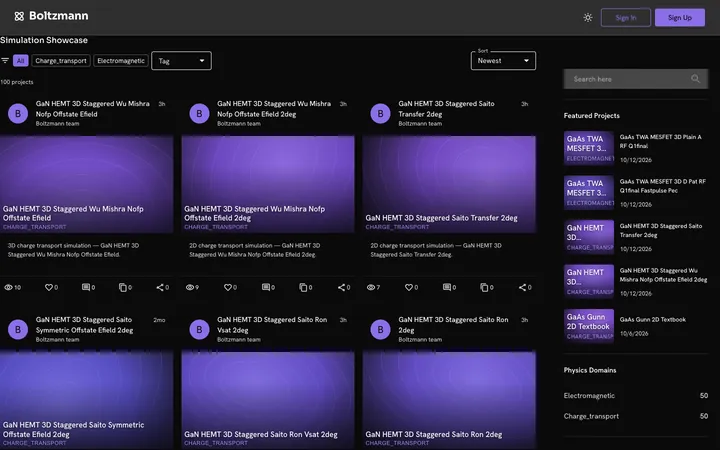
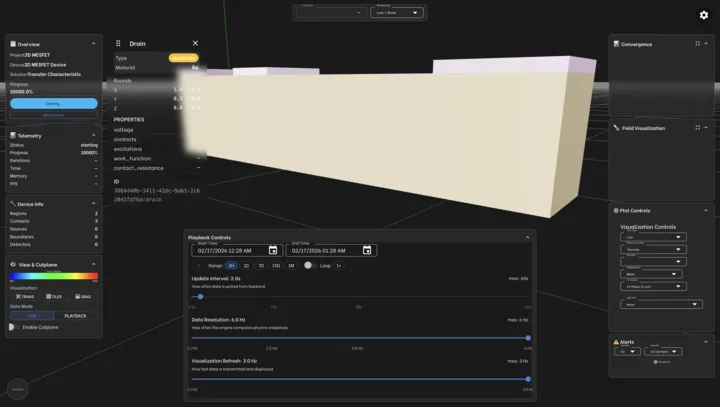
portfolio: real studio shots, Tillio card, Signals Institute case 06
- Boltzmann: Simulation Studio, IDE, device generation, research impact (from its landing images); drop placeholder showcase
- Landslide: signed-in dashboard (account email blurred) + benchmarks leaderboard
- Prophet: developers/API page; Tillio: new product card (landing + discover + projects, internal project name blurred)
- Remove repetitive first-run cards from 11 products
- Identity case 06: The Signals Institute (bee mark plates, palette, type, home + pillars)

diff --git a/site/portfolio.html b/site/portfolio.html
@@ -4,7 +4,7 @@
 <meta charset="utf-8">
 <meta name="viewport" content="width=device-width, initial-scale=1, viewport-fit=cover">
 <title>Design portfolio · Butts Studios</title>
-<meta name="description" content="Brand identities and products designed by Butts Studios: Huntington Applied, Runwae Apparel, Daily AI Toll, Latarence, Landslide, Boltzmann, Chrona, Blacklab and more.">
+<meta name="description" content="Brand identities and products designed by Butts Studios: Huntington Applied, Runwae Apparel, Daily AI Toll, Latarence, Ridgefield, The Signals Institute, Landslide, Boltzmann, Chrona, Blacklab and more.">
 <meta name="robots" content="noindex">
 <link rel="icon" type="image/png" href="favicon.png">
 <link rel="preconnect" href="https://fonts.googleapis.com">
@@ -190,13 +190,44 @@
           <figcaption><b>Performance</b> · engagements</figcaption></figure>
       </div>
     </article>
+
+    <article class="case" id="signals-institute">
+      <div class="case-info">
+        <span class="case-no">06</span>
+        <h2>The Signals Institute</h2>
+        <p class="kind">Identity · Website</p>
+        <p class="desc">An institute in West Palm Beach increasing access to technology careers in underserved communities. The identity pairs a bee mark with a stacked wordmark, set in near-black with one signal blue and quiet, generous type.</p>
+        <dl>
+          <div><dt>Palette</dt><dd>
+            <ul class="swatches">
+              <li><i style="background:#0A0A0A"></i>#0A0A0A</li>
+              <li><i style="background:#00A8E8"></i>#00A8E8</li>
+              <li><i style="background:#22C55E"></i>#22C55E</li>
+              <li><i style="background:#F59E0B"></i>#F59E0B</li>
+              <li><i style="background:#F5F3EE"></i>#F5F3EE</li>
+            </ul>
+          </dd></div>
+          <div><dt>Type</dt><dd>Inter Tight for headlines and reading; Source Serif 4 as the accent face.</dd></div>
+          <div><dt>System</dt><dd>Numbered navigation, small uppercase section labels, and three pillars each keyed to its own colour.</dd></div>
+        </dl>
+        <p><a class="open-site" href="https://thesignalsinstitute.com" target="_blank" rel="noopener">Visit ↗</a></p>
+      </div>
+      <div class="case-media">
+        <figure class="pf-shot"><div class="pf-frame"><a class="zoom" href="assets/portfolio/screen-signals-institute.webp" data-gallery="signals-institute" data-caption="The Signals Institute · thesignalsinstitute.com · homepage"><img src="assets/portfolio/screen-signals-institute-720.webp" srcset="assets/portfolio/screen-signals-institute-720.webp 720w, assets/portfolio/screen-signals-institute.webp 1440w" sizes="(max-width: 900px) 100vw, 60vw" width="1440" height="900" alt="The Signals Institute homepage: Access Changes Everything in white on near-black beside faint concentric signal rings" loading="lazy"></a></div>
+          <figcaption><b>thesignalsinstitute.com</b> · homepage</figcaption></figure>
+        <div class="plate tsi-ink half"><div><a class="zoom" href="assets/portfolio/signals-institute-logo-light.webp" data-gallery="signals-institute" data-caption="The Signals Institute · Bee mark and wordmark on near-black"><img src="assets/portfolio/signals-institute-logo-light.webp" alt="The Signals Institute logo: a bee mark beside the stacked name, in white" loading="lazy"></a><p class="plate-cap">Mark on near-black</p></div></div>
+        <div class="plate tsi-paper half"><div><a class="zoom" href="assets/portfolio/signals-institute-logo-dark.webp" data-gallery="signals-institute" data-caption="The Signals Institute · Bee mark and wordmark on paper"><img src="assets/portfolio/signals-institute-logo-dark.webp" alt="The Signals Institute logo: a bee mark beside the stacked name, in black" loading="lazy"></a><p class="plate-cap">Mark on paper</p></div></div>
+        <figure class="pf-shot"><div class="pf-frame"><a class="zoom" href="assets/portfolio/screen-signals-institute-pillars.webp" data-gallery="signals-institute" data-caption="The Signals Institute · Pillars page"><img src="assets/portfolio/screen-signals-institute-pillars-720.webp" srcset="assets/portfolio/screen-signals-institute-pillars-720.webp 720w, assets/portfolio/screen-signals-institute-pillars.webp 1440w" sizes="(max-width: 900px) 100vw, 60vw" width="1440" height="900" alt="The Signals Institute pillars page: Three pillars of impact, with Engagement, Exposure and Transition columns in blue, green and amber" loading="lazy"></a></div>
+          <figcaption><b>Pillars page</b> · desktop</figcaption></figure>
+      </div>
+    </article>
   </div>
 
   <!-- Products -->
   <section class="wrap section" id="products" style="border-top:1px solid var(--line)">
     <div class="section-head">
       <h2>Products</h2>
-      <p>Each product with its landing page, its studio and a demo where there is one. Tap any image to zoom. Captured October 2026.</p>
+      <p>Each product with its landing page, its studio where we have working shots, and a demo where there is one. Tap any image to zoom. Captured October 2026.</p>
     </div>
     <div class="pf-products">
       <article class="pf-product" id="landslide">
@@ -207,7 +238,9 @@
         <div class="product-gallery">
           <figure class="pf-shot lead with-phone"><div class="pf-frame"><a class="zoom" href="assets/portfolio/screen-landslide.webp" data-gallery="landslide" data-caption="Landslide · Landing"><img src="assets/portfolio/screen-landslide-720.webp" srcset="assets/portfolio/screen-landslide-720.webp 720w, assets/portfolio/screen-landslide.webp 1440w" sizes="(max-width: 900px) 100vw, 45vw" width="1440" height="900" alt="Landslide landing page: Predict the Unpredictable over a glowing world network" loading="lazy"></a></div><figcaption><b>Landing</b></figcaption></figure>
           <figure class="pf-shot k-phone"><div class="phone"><a class="zoom" href="assets/portfolio/mobile-landslide.webp" data-gallery="landslide" data-caption="Landslide · Phone"><img src="assets/portfolio/mobile-landslide.webp" width="780" height="1688" alt="Landslide landing page on a phone" loading="lazy"></a></div><figcaption>Phone</figcaption></figure>
+          <figure class="pf-shot lead k-studio"><div class="pf-frame"><a class="zoom" href="assets/portfolio/studio-landslide.webp" data-gallery="landslide" data-caption="Landslide · Studio · dashboard"><img src="assets/portfolio/studio-landslide-720.webp" srcset="assets/portfolio/studio-landslide-720.webp 720w, assets/portfolio/studio-landslide.webp 1280w" sizes="(max-width: 900px) 100vw, 45vw" width="1280" height="656" alt="Landslide signed-in dashboard: project, scenario, execution and live-stream counts above ingest, simulation-time and CPU charts" loading="lazy"></a></div><figcaption><b>Studio</b> · dashboard</figcaption></figure>
           <figure class="pf-shot k-demo"><div class="pf-frame"><a class="zoom" href="assets/portfolio/screen-landslide-demo.webp" data-gallery="landslide" data-caption="Landslide · Demo · cascade"><img src="assets/portfolio/screen-landslide-demo-720.webp" width="720" height="450" alt="Landslide demo: See how shocks cascade, with a coupling graph across domains" loading="lazy"></a></div><figcaption>Demo · cascade</figcaption></figure>
+          <figure class="pf-shot k-studio"><div class="pf-frame"><a class="zoom" href="assets/portfolio/screen-landslide-benchmarks.webp" data-gallery="landslide" data-caption="Landslide · Benchmarks · model leaderboard"><img src="assets/portfolio/screen-landslide-benchmarks-720.webp" width="720" height="369" alt="Landslide benchmarking leaderboard: four reference models with accuracy, relative error, speedup and pass or below-bar results" loading="lazy"></a></div><figcaption>Benchmarks · model leaderboard</figcaption></figure>
         </div>
       </article>
       <article class="pf-product" id="runwae">
@@ -227,7 +260,10 @@
         </header>
         <div class="product-gallery">
           <figure class="pf-shot lead"><div class="pf-frame"><a class="zoom" href="assets/portfolio/screen-boltzmann.webp" data-gallery="boltzmann" data-caption="Boltzmann · Landing"><img src="assets/portfolio/screen-boltzmann-720.webp" srcset="assets/portfolio/screen-boltzmann-720.webp 720w, assets/portfolio/screen-boltzmann.webp 1440w" sizes="(max-width: 900px) 100vw, 45vw" width="1440" height="900" alt="Boltzmann landing page: Multiphysics Simulation, Reinvented for Teams on violet" loading="lazy"></a></div><figcaption><b>Landing</b></figcaption></figure>
-          <figure class="pf-shot k-studio"><div class="pf-frame"><a class="zoom" href="assets/portfolio/studio-boltzmann.webp" data-gallery="boltzmann" data-caption="Boltzmann · Studio · simulation showcase"><img src="assets/portfolio/studio-boltzmann-720.webp" width="720" height="450" alt="Boltzmann simulation showcase: a grid of charge-transport and electromagnetic projects with filters and featured projects" loading="lazy"></a></div><figcaption>Studio · simulation showcase</figcaption></figure>
+          <figure class="pf-shot lead k-studio"><div class="pf-frame"><a class="zoom" href="assets/portfolio/studio-boltzmann.webp" data-gallery="boltzmann" data-caption="Boltzmann · Studio · Simulation Studio"><img src="assets/portfolio/studio-boltzmann-720.webp" srcset="assets/portfolio/studio-boltzmann-720.webp 720w, assets/portfolio/studio-boltzmann.webp 1440w" sizes="(max-width: 900px) 100vw, 45vw" width="1440" height="813" alt="Boltzmann Simulation Studio: a 3D device model with parameter, convergence, colour-scale and playback panels" loading="lazy"></a></div><figcaption><b>Studio</b> · Simulation Studio</figcaption></figure>
+          <figure class="pf-shot k-studio"><div class="pf-frame"><a class="zoom" href="assets/portfolio/screen-boltzmann-ide.webp" data-gallery="boltzmann" data-caption="Boltzmann · IDE"><img src="assets/portfolio/screen-boltzmann-ide-720.webp" width="720" height="408" alt="Boltzmann IDE: a project explorer, a device file in the editor and two 3D device viewers side by side" loading="lazy"></a></div><figcaption>IDE · device files and viewers</figcaption></figure>
+          <figure class="pf-shot k-studio"><div class="pf-frame"><a class="zoom" href="assets/portfolio/screen-boltzmann-device.webp" data-gallery="boltzmann" data-caption="Boltzmann · Device generation"><img src="assets/portfolio/screen-boltzmann-device-720.webp" width="720" height="406" alt="Boltzmann device generation: a device generated from a text description, with its structure and generation status" loading="lazy"></a></div><figcaption>Device generation</figcaption></figure>
+          <figure class="pf-shot k-studio"><div class="pf-frame"><a class="zoom" href="assets/portfolio/screen-boltzmann-impact.webp" data-gallery="boltzmann" data-caption="Boltzmann · Research impact"><img src="assets/portfolio/screen-boltzmann-impact-720.webp" width="720" height="406" alt="Boltzmann research impact: views, clones and likes across public projects, an engagement chart and top projects" loading="lazy"></a></div><figcaption>Research impact</figcaption></figure>
           <figure class="pf-shot k-demo"><div class="pf-frame"><a class="zoom" href="assets/portfolio/screen-boltzmann-demo.webp" data-gallery="boltzmann" data-caption="Boltzmann · Demo · PN diode prediction"><img src="assets/portfolio/screen-boltzmann-demo-720.webp" width="720" height="450" alt="Boltzmann demo: predicted DC carrier profile heatmaps for a generated PN junction diode" loading="lazy"></a></div><figcaption>Demo · PN diode prediction</figcaption></figure>
         </div>
       </article>
@@ -239,7 +275,6 @@
         <div class="product-gallery">
           <figure class="pf-shot lead with-phone"><div class="pf-frame"><a class="zoom" href="assets/portfolio/screen-chrona.webp" data-gallery="chrona" data-caption="Chrona · Landing"><img src="assets/portfolio/screen-chrona-720.webp" srcset="assets/portfolio/screen-chrona-720.webp 720w, assets/portfolio/screen-chrona.webp 1440w" sizes="(max-width: 900px) 100vw, 45vw" width="1440" height="900" alt="Chrona landing page: Simulate the Spectrum in Realtime in orange" loading="lazy"></a></div><figcaption><b>Landing</b></figcaption></figure>
           <figure class="pf-shot k-phone"><div class="phone"><a class="zoom" href="assets/portfolio/mobile-chrona.webp" data-gallery="chrona" data-caption="Chrona · Phone"><img src="assets/portfolio/mobile-chrona.webp" width="780" height="1688" alt="Chrona landing page on a phone" loading="lazy"></a></div><figcaption>Phone</figcaption></figure>
-          <figure class="pf-shot k-studio"><div class="pf-frame"><a class="zoom" href="assets/portfolio/studio-chrona.webp" data-gallery="chrona" data-caption="Chrona · Studio · first-run setup"><img src="assets/portfolio/studio-chrona-720.webp" width="720" height="450" alt="Chrona workspace first-run setup: Who are you? with RF engineer, algorithm researcher, lab manager and reviewer roles" loading="lazy"></a></div><figcaption>Studio · first-run setup</figcaption></figure>
           <figure class="pf-shot k-demo"><div class="pf-frame"><a class="zoom" href="assets/portfolio/screen-chrona-demo.webp" data-gallery="chrona" data-caption="Chrona · Demo · coverage field"><img src="assets/portfolio/screen-chrona-demo-720.webp" width="720" height="450" alt="Chrona demo: Estimate an RF coverage field in milliseconds, with sample scenarios" loading="lazy"></a></div><figcaption>Demo · coverage field</figcaption></figure>
         </div>
       </article>
@@ -251,7 +286,6 @@
         <div class="product-gallery">
           <figure class="pf-shot lead with-phone"><div class="pf-frame"><a class="zoom" href="assets/portfolio/screen-blacklab.webp" data-gallery="blacklab" data-caption="Blacklab · Landing"><img src="assets/portfolio/screen-blacklab-720.webp" srcset="assets/portfolio/screen-blacklab-720.webp 720w, assets/portfolio/screen-blacklab.webp 1440w" sizes="(max-width: 900px) 100vw, 45vw" width="1440" height="900" alt="Blacklab landing page: Model Reality in yellow on black" loading="lazy"></a></div><figcaption><b>Landing</b></figcaption></figure>
           <figure class="pf-shot k-phone"><div class="phone"><a class="zoom" href="assets/portfolio/mobile-blacklab.webp" data-gallery="blacklab" data-caption="Blacklab · Phone"><img src="assets/portfolio/mobile-blacklab.webp" width="780" height="1688" alt="Blacklab landing page on a phone" loading="lazy"></a></div><figcaption>Phone</figcaption></figure>
-          <figure class="pf-shot k-studio"><div class="pf-frame"><a class="zoom" href="assets/portfolio/studio-blacklab.webp" data-gallery="blacklab" data-caption="Blacklab · Studio · first-run setup"><img src="assets/portfolio/studio-blacklab-720.webp" width="720" height="450" alt="Blacklab workspace first-run setup in dark mode: compute-node operator, simulation researcher, reviewer and explorer roles" loading="lazy"></a></div><figcaption>Studio · first-run setup</figcaption></figure>
           <figure class="pf-shot k-demo"><div class="pf-frame"><a class="zoom" href="assets/portfolio/screen-blacklab-demo.webp" data-gallery="blacklab" data-caption="Blacklab · Demo · sensor prediction"><img src="assets/portfolio/screen-blacklab-demo-720.webp" width="720" height="450" alt="Blacklab demo: Predict from any sensor without a full solve, with radar, Wi-Fi and LIDAR scenes" loading="lazy"></a></div><figcaption>Demo · sensor prediction</figcaption></figure>
         </div>
       </article>
@@ -262,7 +296,6 @@
         </header>
         <div class="product-gallery">
           <figure class="pf-shot lead"><div class="pf-frame"><a class="zoom" href="assets/portfolio/screen-raphael.webp" data-gallery="raphael" data-caption="Raphael · Landing"><img src="assets/portfolio/screen-raphael-720.webp" srcset="assets/portfolio/screen-raphael-720.webp 720w, assets/portfolio/screen-raphael.webp 1440w" sizes="(max-width: 900px) 100vw, 45vw" width="1440" height="900" alt="Raphael landing page: Simulate Research Trajectories" loading="lazy"></a></div><figcaption><b>Landing</b></figcaption></figure>
-          <figure class="pf-shot k-studio"><div class="pf-frame"><a class="zoom" href="assets/portfolio/studio-raphael.webp" data-gallery="raphael" data-caption="Raphael · Studio · first-run setup"><img src="assets/portfolio/studio-raphael-720.webp" width="720" height="450" alt="Raphael workspace first-run setup: principal investigator, ecosystem designer, analyst and lab admin roles" loading="lazy"></a></div><figcaption>Studio · first-run setup</figcaption></figure>
         </div>
       </article>
       <article class="pf-product" id="sage">
@@ -272,7 +305,6 @@
         </header>
         <div class="product-gallery">
           <figure class="pf-shot lead"><div class="pf-frame"><a class="zoom" href="assets/portfolio/screen-sage.webp" data-gallery="sage" data-caption="Sage · Landing"><img src="assets/portfolio/screen-sage-720.webp" srcset="assets/portfolio/screen-sage-720.webp 720w, assets/portfolio/screen-sage.webp 1440w" sizes="(max-width: 900px) 100vw, 45vw" width="1440" height="900" alt="Sage landing page: SAGE wordmark in green with a DNA mark" loading="lazy"></a></div><figcaption><b>Landing</b></figcaption></figure>
-          <figure class="pf-shot k-studio"><div class="pf-frame"><a class="zoom" href="assets/portfolio/studio-sage.webp" data-gallery="sage" data-caption="Sage · Studio · first-run setup"><img src="assets/portfolio/studio-sage-720.webp" width="720" height="450" alt="Sage workspace first-run setup: computational biologist, protein designer, lab PI and contributor roles" loading="lazy"></a></div><figcaption>Studio · first-run setup</figcaption></figure>
         </div>
       </article>
       <article class="pf-product" id="farad">
@@ -282,7 +314,6 @@
         </header>
         <div class="product-gallery">
           <figure class="pf-shot lead"><div class="pf-frame"><a class="zoom" href="assets/portfolio/screen-farad.webp" data-gallery="farad" data-caption="Farad · Landing"><img src="assets/portfolio/screen-farad-720.webp" srcset="assets/portfolio/screen-farad-720.webp 720w, assets/portfolio/screen-farad.webp 1440w" sizes="(max-width: 900px) 100vw, 45vw" width="1440" height="900" alt="Farad landing page: Defensive Cyber Simulation in blue" loading="lazy"></a></div><figcaption><b>Landing</b></figcaption></figure>
-          <figure class="pf-shot k-studio"><div class="pf-frame"><a class="zoom" href="assets/portfolio/studio-farad.webp" data-gallery="farad" data-caption="Farad · Studio · first-run setup"><img src="assets/portfolio/studio-farad-720.webp" width="720" height="450" alt="Farad workspace first-run setup: SOC analyst, blue-team engineer, security researcher and program admin roles" loading="lazy"></a></div><figcaption>Studio · first-run setup</figcaption></figure>
         </div>
       </article>
       <article class="pf-product" id="tiffany">
@@ -292,7 +323,6 @@
         </header>
         <div class="product-gallery">
           <figure class="pf-shot lead"><div class="pf-frame"><a class="zoom" href="assets/portfolio/screen-tiffany.webp" data-gallery="tiffany" data-caption="Tiffany · Landing"><img src="assets/portfolio/screen-tiffany-720.webp" srcset="assets/portfolio/screen-tiffany-720.webp 720w, assets/portfolio/screen-tiffany.webp 1440w" sizes="(max-width: 900px) 100vw, 45vw" width="1440" height="900" alt="Tiffany landing page: Operational Clarity with a monitoring dashboard preview" loading="lazy"></a></div><figcaption><b>Landing</b></figcaption></figure>
-          <figure class="pf-shot k-studio"><div class="pf-frame"><a class="zoom" href="assets/portfolio/studio-tiffany.webp" data-gallery="tiffany" data-caption="Tiffany · Studio · first-run setup"><img src="assets/portfolio/studio-tiffany-720.webp" width="720" height="450" alt="Tiffany workspace first-run setup: SRE, engineering manager, FinOps planner and admin roles" loading="lazy"></a></div><figcaption>Studio · first-run setup</figcaption></figure>
         </div>
       </article>
       <article class="pf-product" id="nods">
@@ -302,7 +332,6 @@
         </header>
         <div class="product-gallery">
           <figure class="pf-shot lead"><div class="pf-frame"><a class="zoom" href="assets/portfolio/screen-nods.webp" data-gallery="nods" data-caption="NODS · Landing"><img src="assets/portfolio/screen-nods-720.webp" srcset="assets/portfolio/screen-nods-720.webp 720w, assets/portfolio/screen-nods.webp 1440w" sizes="(max-width: 900px) 100vw, 45vw" width="1440" height="900" alt="NODS landing page: Workspace Intelligence in green" loading="lazy"></a></div><figcaption><b>Landing</b></figcaption></figure>
-          <figure class="pf-shot k-studio"><div class="pf-frame"><a class="zoom" href="assets/portfolio/studio-nods.webp" data-gallery="nods" data-caption="NODS · Studio · first-run setup"><img src="assets/portfolio/studio-nods-720.webp" width="720" height="450" alt="NODS workspace first-run setup: developer, DevOps, team lead and solo power user roles" loading="lazy"></a></div><figcaption>Studio · first-run setup</figcaption></figure>
         </div>
       </article>
       <article class="pf-product" id="chief">
@@ -333,7 +362,6 @@
         </header>
         <div class="product-gallery">
           <figure class="pf-shot lead"><div class="pf-frame"><a class="zoom" href="assets/portfolio/screen-rigor.webp" data-gallery="rigor" data-caption="Rigor · Landing"><img src="assets/portfolio/screen-rigor-720.webp" srcset="assets/portfolio/screen-rigor-720.webp 720w, assets/portfolio/screen-rigor.webp 1440w" sizes="(max-width: 900px) 100vw, 45vw" width="1440" height="900" alt="Rigor landing page: Clarity for the debates that matter, over an illustrated debate stage" loading="lazy"></a></div><figcaption><b>Landing</b></figcaption></figure>
-          <figure class="pf-shot k-studio"><div class="pf-frame"><a class="zoom" href="assets/portfolio/studio-rigor.webp" data-gallery="rigor" data-caption="Rigor · Studio · first-run setup"><img src="assets/portfolio/studio-rigor-720.webp" width="720" height="405" alt="Rigor workspace first-run setup: moderator, debater, analyst and org admin roles" loading="lazy"></a></div><figcaption>Studio · first-run setup</figcaption></figure>
         </div>
       </article>
       <article class="pf-product" id="kitch">
@@ -343,7 +371,6 @@
         </header>
         <div class="product-gallery">
           <figure class="pf-shot lead"><div class="pf-frame"><a class="zoom" href="assets/portfolio/screen-kitch.webp" data-gallery="kitch" data-caption="Kitch · Landing"><img src="assets/portfolio/screen-kitch-720.webp" srcset="assets/portfolio/screen-kitch-720.webp 720w, assets/portfolio/screen-kitch.webp 1440w" sizes="(max-width: 900px) 100vw, 45vw" width="1440" height="900" alt="Kitch landing page: Influencer Discovery and Campaign Management" loading="lazy"></a></div><figcaption><b>Landing</b></figcaption></figure>
-          <figure class="pf-shot k-studio"><div class="pf-frame"><a class="zoom" href="assets/portfolio/studio-kitch.webp" data-gallery="kitch" data-caption="Kitch · Studio · first-run setup"><img src="assets/portfolio/studio-kitch-720.webp" width="720" height="450" alt="Kitch workspace first-run setup: brand, creator, agency and admin roles" loading="lazy"></a></div><figcaption>Studio · first-run setup</figcaption></figure>
         </div>
       </article>
       <article class="pf-product" id="fasci">
@@ -353,7 +380,6 @@
         </header>
         <div class="product-gallery">
           <figure class="pf-shot lead"><div class="pf-frame"><a class="zoom" href="assets/portfolio/screen-fasci.webp" data-gallery="fasci" data-caption="Fasci · Landing"><img src="assets/portfolio/screen-fasci-720.webp" srcset="assets/portfolio/screen-fasci-720.webp 720w, assets/portfolio/screen-fasci.webp 1440w" sizes="(max-width: 900px) 100vw, 45vw" width="1440" height="900" alt="Fasci landing page: Collective Action Through Verified Participation" loading="lazy"></a></div><figcaption><b>Landing</b></figcaption></figure>
-          <figure class="pf-shot k-studio"><div class="pf-frame"><a class="zoom" href="assets/portfolio/studio-fasci.webp" data-gallery="fasci" data-caption="Fasci · Studio · first-run setup"><img src="assets/portfolio/studio-fasci-720.webp" width="720" height="450" alt="Fasci workspace first-run setup: activist, organizer, advocate and admin roles" loading="lazy"></a></div><figcaption>Studio · first-run setup</figcaption></figure>
         </div>
       </article>
       <article class="pf-product" id="good-tea">
@@ -363,7 +389,6 @@
         </header>
         <div class="product-gallery">
           <figure class="pf-shot lead"><div class="pf-frame"><a class="zoom" href="assets/portfolio/screen-good-tea.webp" data-gallery="good-tea" data-caption="Good Tea · Landing"><img src="assets/portfolio/screen-good-tea-720.webp" srcset="assets/portfolio/screen-good-tea-720.webp 720w, assets/portfolio/screen-good-tea.webp 1440w" sizes="(max-width: 900px) 100vw, 45vw" width="1440" height="900" alt="Good Tea landing page: Content Without Boundaries" loading="lazy"></a></div><figcaption><b>Landing</b></figcaption></figure>
-          <figure class="pf-shot k-studio"><div class="pf-frame"><a class="zoom" href="assets/portfolio/studio-good-tea.webp" data-gallery="good-tea" data-caption="Good Tea · Studio · first-run setup"><img src="assets/portfolio/studio-good-tea-720.webp" width="720" height="450" alt="Tea workspace first-run setup: streamer, community curator, viewer and analyst roles" loading="lazy"></a></div><figcaption>Studio · first-run setup</figcaption></figure>
         </div>
       </article>
       <article class="pf-product" id="prophet">
@@ -373,6 +398,18 @@
         </header>
         <div class="product-gallery">
           <figure class="pf-shot lead"><div class="pf-frame"><a class="zoom" href="assets/portfolio/screen-prophet.webp" data-gallery="prophet" data-caption="Prophet · Landing"><img src="assets/portfolio/screen-prophet-720.webp" srcset="assets/portfolio/screen-prophet-720.webp 720w, assets/portfolio/screen-prophet.webp 1440w" sizes="(max-width: 900px) 100vw, 45vw" width="1440" height="900" alt="Prophet landing page: Developer Engagement at Scale" loading="lazy"></a></div><figcaption><b>Landing</b></figcaption></figure>
+          <figure class="pf-shot lead"><div class="pf-frame"><a class="zoom" href="assets/portfolio/screen-prophet-developers.webp" data-gallery="prophet" data-caption="Prophet · Developers · API"><img src="assets/portfolio/screen-prophet-developers-720.webp" srcset="assets/portfolio/screen-prophet-developers-720.webp 720w, assets/portfolio/screen-prophet-developers.webp 1280w" sizes="(max-width: 900px) 100vw, 45vw" width="1280" height="800" alt="Prophet developers page: Build with Prophet API, with RESTful and client SDK cards" loading="lazy"></a></div><figcaption>Developers · API</figcaption></figure>
+        </div>
+      </article>
+      <article class="pf-product" id="tillio">
+        <header class="product-head">
+          <div><h3>Tillio</h3><p>Project-based equity: teams agree the split and track what each contribution is worth, as a living cap table.</p></div>
+          <a class="open-site" href="https://tillio.ai" target="_blank" rel="noopener">Visit ↗</a>
+        </header>
+        <div class="product-gallery">
+          <figure class="pf-shot lead"><div class="pf-frame"><a class="zoom" href="assets/portfolio/screen-tillio.webp" data-gallery="tillio" data-caption="Tillio · Landing"><img src="assets/portfolio/screen-tillio-720.webp" srcset="assets/portfolio/screen-tillio-720.webp 720w, assets/portfolio/screen-tillio.webp 1440w" sizes="(max-width: 900px) 100vw, 45vw" width="1440" height="826" alt="Tillio landing page: Agree the split. Track what gets built, in cream and orange on charcoal" loading="lazy"></a></div><figcaption><b>Landing</b></figcaption></figure>
+          <figure class="pf-shot k-studio"><div class="pf-frame"><a class="zoom" href="assets/portfolio/studio-tillio.webp" data-gallery="tillio" data-caption="Tillio · Studio · discover projects"><img src="assets/portfolio/studio-tillio-720.webp" width="720" height="369" alt="Tillio discover view: project cards with phase, model and contributor filters" loading="lazy"></a></div><figcaption>Studio · discover projects</figcaption></figure>
+          <figure class="pf-shot k-studio"><div class="pf-frame"><a class="zoom" href="assets/portfolio/screen-tillio-projects.webp" data-gallery="tillio" data-caption="Tillio · Studio · projects"><img src="assets/portfolio/screen-tillio-projects-720.webp" width="720" height="369" alt="Tillio projects view: an orange summary of projects, contributions, contributors and distributions above contribution activity" loading="lazy"></a></div><figcaption>Studio · projects</figcaption></figure>
         </div>
       </article>
       <article class="pf-product" id="sentinel">

diff --git a/site/portfolio.css b/site/portfolio.css
@@ -190,3 +190,8 @@ html.lb-open { overflow: hidden; }
   .lb-stage img { max-height: calc(100dvh - 84px); }
 }
 .wall-card .open-site { justify-self: start; }
+
+/* ---------- The Signals Institute plates (2026-10-13) ---------- */
+.plate.tsi-ink { background: #0A0A0A; }
+.plate.tsi-paper { background: #F5F3EE; }
+.plate.tsi-paper .plate-cap { color: #6B655B; }
